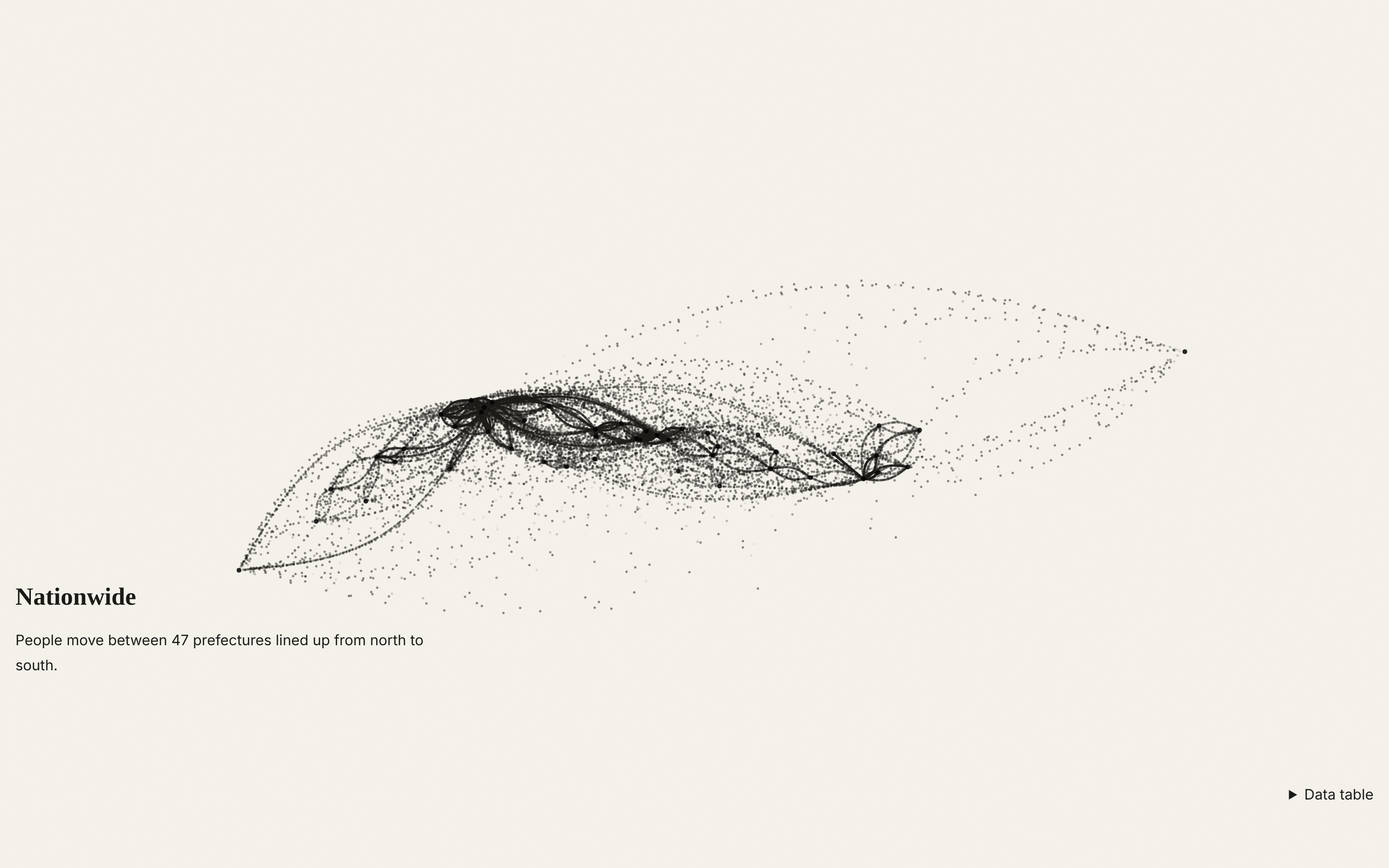
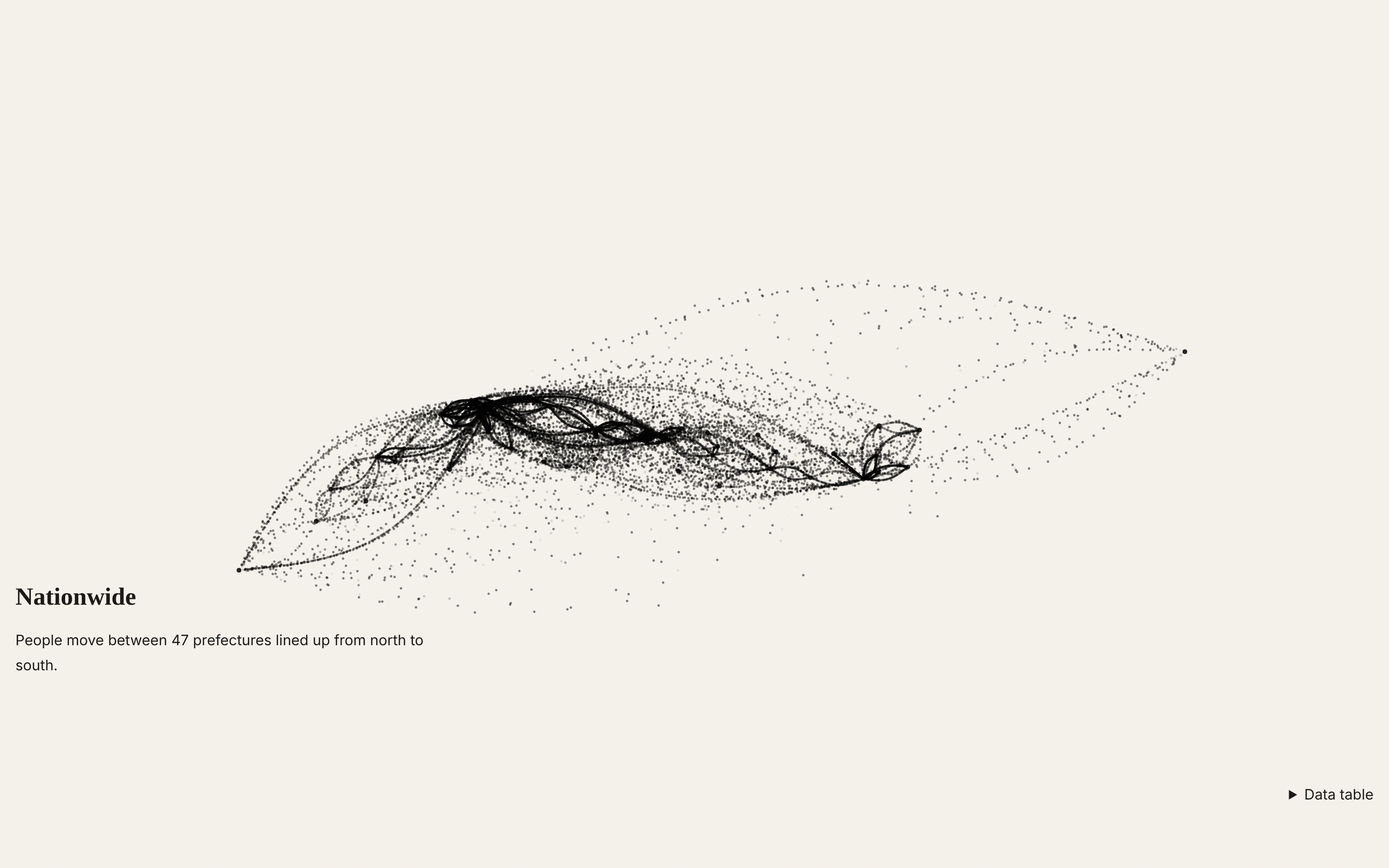
粒子の色を他の層と同じ shared.uniforms.uInk にし、推奨の画面(docs/particles/shots)を取り込む
Claude-Session: https://claude.ai/code/session_01PEzRMmfCNH2HNnktgeYrFx

diff --git a/src/scene/particles.js b/src/scene/particles.js
@@ -84,13 +84,13 @@ void main(){
 }`;
 
 export const PARTICLE_FRAG = /* glsl */ `
-uniform vec3 uColor; uniform float uSize;
+uniform vec3 uInk; uniform float uSize;
 in float vA; out vec4 outColor;
 void main(){
   float r = length(gl_PointCoord * 2.0 - 1.0) * (uSize + 1.0) * 0.5;
   float a = clamp(uSize * 0.5 - r + 0.5, 0.0, 1.0) * vA;
   if (a <= 0.0) discard;
-  outColor = vec4(uColor, a);
+  outColor = vec4(uInk, a);
 }`;
 
 /** URL の still=1(撮影用の固定)。ctx.still があればそれを使う。 */
@@ -142,7 +142,6 @@ export function createParticlesLayer(ctx) {
     uAlpha: { value: ALPHA },
     uSel: { value: new Array(N).fill(0) },
     uHasSel: { value: 0 },
-    uColor: { value: new THREE.Vector3() },
   };
 
   const passes = [
@@ -190,14 +189,6 @@ export function createParticlesLayer(ctx) {
   }
   setSelection(null);
 
-  const srgb = { r: 0, g: 0, b: 0 };
-  function syncColor() {
-    // ShaderMaterial は出力の色空間を変換しないので、トークンの sRGB 値をそのまま渡す
-    shared.uniforms.uInk.value.getRGB(srgb, THREE.SRGBColorSpace);
-    own.uColor.value.set(srgb.r, srgb.g, srgb.b);
-  }
-  syncColor();
-
   return {
     object3D,
     /** 弧ごとの枠の数(per[o * 47 + d])と合計。代替表示や確認に使う。 */
@@ -209,7 +200,6 @@ export function createParticlesLayer(ctx) {
       own.uStill.value = motionless ? 1 : 0;
       own.uPhase.value = phaseAt(frame?.time ?? 0, motionless);
       own.uSize.value = SIZE_CSS_PX * shared.uniforms.uPixelRatio.value;
-      syncColor();
     },
     setYear(a, b, mix) {
       own.uYearA.value = yearIndex(a);
@@ -217,9 +207,7 @@ export function createParticlesLayer(ctx) {
       own.uYearMix.value = Math.min(1, Math.max(0, mix ?? 0));
     },
     setSelection,
-    setTheme() {
-      syncColor();
-    },
+    setTheme() {}, // 色は shared.uniforms.uInk を他の層と共有する
     setHover() {},
     dispose() {
       for (const p of passes) {
